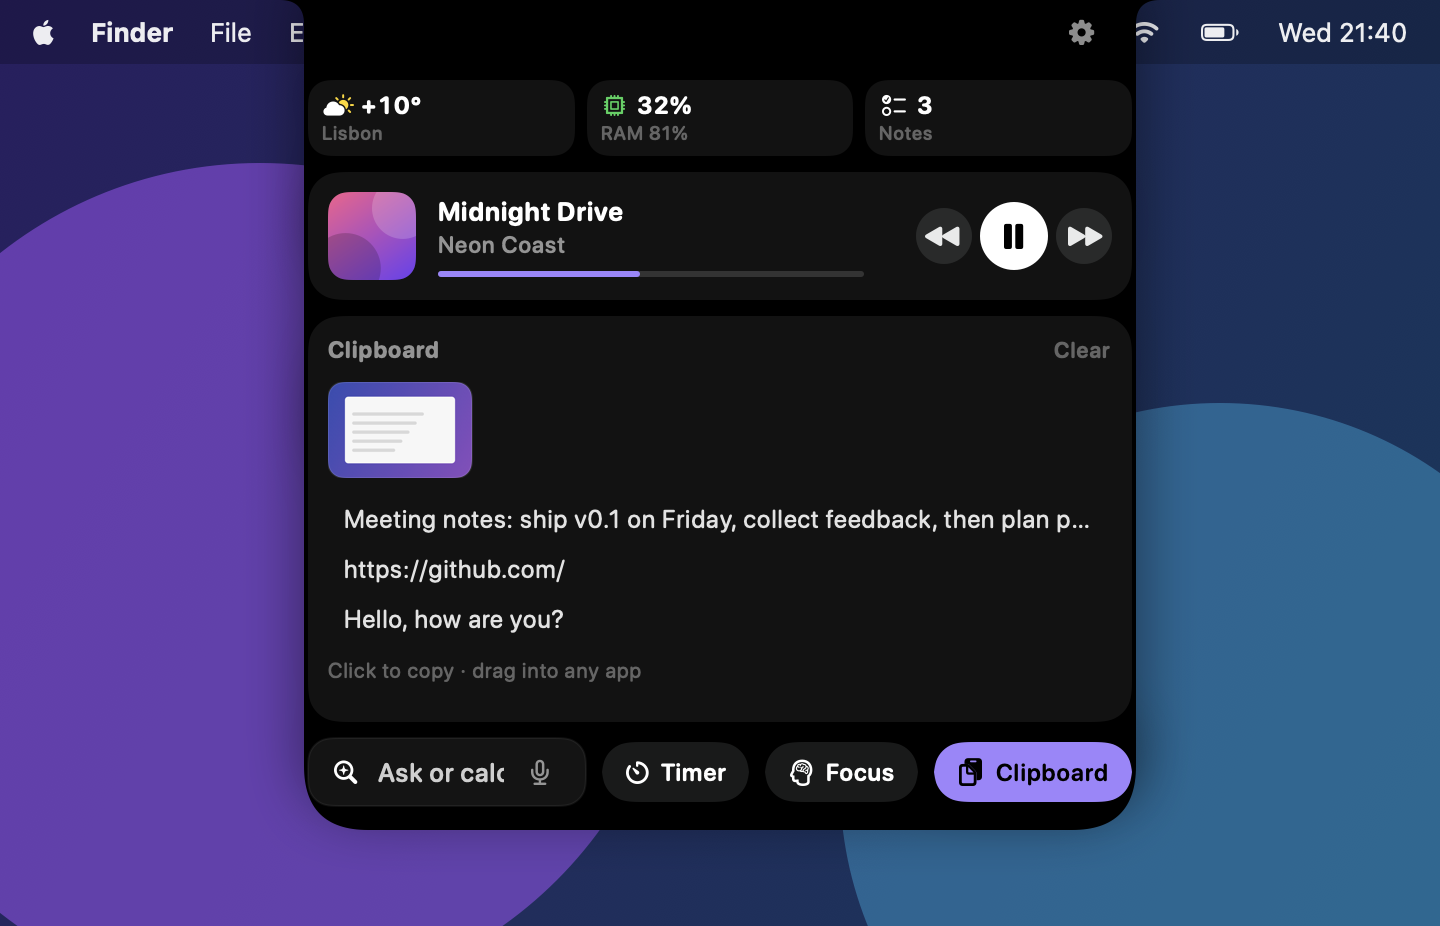
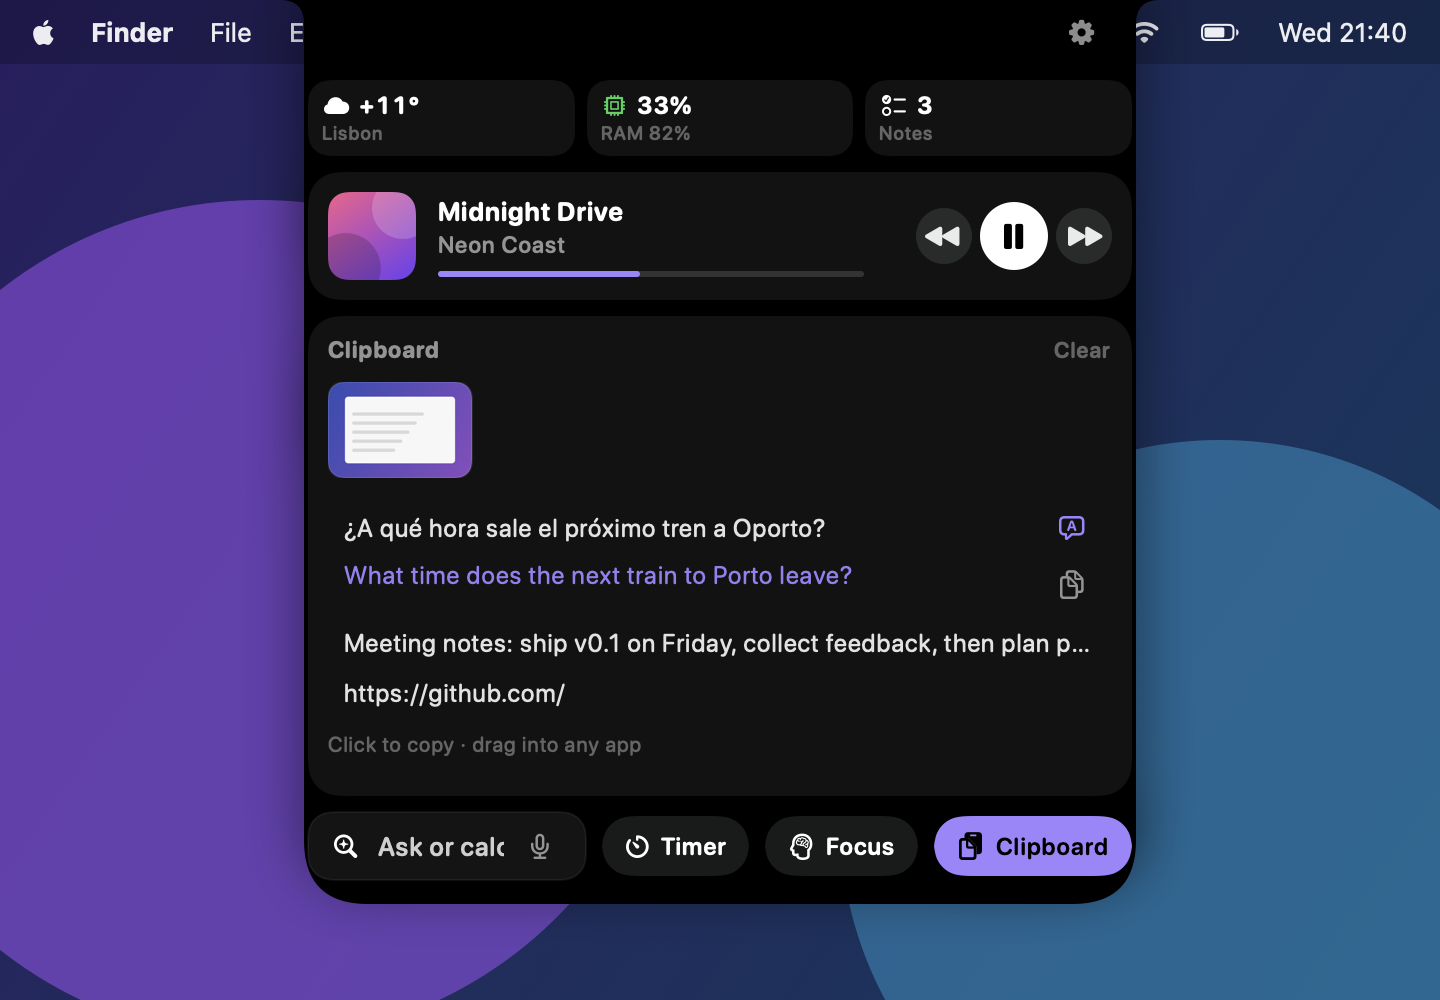
README: explain translating copied text, show a translation in the clipboard screenshot

diff --git a/Sources/App/ReadmeShots.swift b/Sources/App/ReadmeShots.swift
@@ -76,9 +76,12 @@ enum ReadmeShots {
 
         // 6. Smart Clipboard
         let cb = ClipboardStore.shared
-        cb.debugAdd(text: "Hello, how are you?")
         cb.debugAdd(text: "https://github.com/")
         cb.debugAdd(text: "Meeting notes: ship v0.1 on Friday, collect feedback, then plan plugins.")
+        cb.debugAdd(text: "¿A qué hora sale el próximo tren a Oporto?")
+        if let id = cb.texts.first?.id {
+            Translator.shared.debugSet(result: "What time does the next train to Porto leave?", for: id)
+        }
         if let png = fakeScreenshot() { cb.debugAdd(image: png, screenshot: true) }
         state.showClipboard = true
         shot(state, name: "clipboard", height: 760, to: out)

diff --git a/Sources/Modules/Translator.swift b/Sources/Modules/Translator.swift
@@ -19,6 +19,9 @@ final class Translator: ObservableObject {
     @Published private(set) var results: [UUID: String] = [:]
     @Published private(set) var busy: Set<UUID> = []
     @Published private(set) var errors: [UUID: String] = [:]
+
+    /// Для снимков README: готовый перевод элемента буфера.
+    func debugSet(result: String, for id: UUID) { results[id] = result }
     /// TranslationSession.Configuration (хранится как Any, чтобы класс собирался и на macOS 14).
     @Published fileprivate(set) var islandConfig: Any?
     @Published fileprivate(set) var setupConfig: Any?

diff --git a/README.md b/README.md
@@ -6,7 +6,7 @@
 
 <p align="center">
   <b>A Dynamic Island for the MacBook notch.</b><br>
-  Music, timers, notifications, a smart clipboard, widgets and voice control — right where the camera is.
+  Music, timers, notifications, a smart clipboard with translation, widgets and voice control — right where the camera is.
 </p>
 
 <p align="center">
@@ -37,7 +37,8 @@ It is a native Swift/SwiftUI app with no dependencies — it builds with just th
   - [Voice commands](#voice-commands)
   - [Timers and Pomodoro](#timers-and-pomodoro)
   - [Notifications](#notifications)
-  - [Smart Clipboard and translation](#smart-clipboard-and-translation)
+  - [Smart Clipboard](#smart-clipboard)
+  - [Translate copied text](#translate-copied-text)
   - [Widgets](#widgets)
   - [The “Ask” field](#the-ask-field)
   - [Settings](#settings)
@@ -122,20 +123,36 @@ Recent banners from Telegram, Mail, Messages and other apps are collected in the
 open the app they came from, or clear them. macOS has no official API for this, so MacIsland reads the
 system banners through Accessibility; this is optional and off by default.
 
-### Smart Clipboard and translation
+### Smart Clipboard
 
 <p align="center">
-  <img src="docs/screenshots/clipboard.png" width="720" alt="Clipboard history with a screenshot thumbnail and text items">
+  <img src="docs/screenshots/clipboard.png" width="720" alt="Clipboard history: a screenshot thumbnail, a Spanish sentence with its English translation, and other copied text">
 </p>
 
 The island becomes a temporary workspace between apps:
 
 - **Screenshots in one place.** New screenshots appear as thumbnails — drag them straight into Telegram, a browser or an editor.
-- **Text history.** Copied snippets are kept as separate items: click to copy again, translate, pin or delete.
-- **Translate from the clipboard.** One click shows the translation right in the island, ready to copy.
-  It uses the translator built into macOS (15+): free, and works offline once the languages are downloaded.
+- **Text history.** Copied snippets are kept as separate items: click to copy again, drag into any app, pin or delete.
+- **Translation of anything you copied** — see below.
 - **Limits you control** — 10 texts and 5 images by default. The oldest unpinned items go first.
 - **Private by design.** Everything is stored only on this Mac; passwords copied from password managers are never saved.
+
+### Translate copied text
+
+Reading something in a foreign language? Copy it, and translate it without leaving the app you're in:
+
+1. Copy the text as usual (<kbd>⌘ C</kbd>).
+2. Open the island and press **Clipboard**.
+3. Hover the copied item and click the **translate** button next to it (a speech bubble with an “A”).
+4. The translation appears right under the original — click the copy button to put it on the clipboard.
+   Click translate again to hide it.
+
+- **Language is picked automatically:** text is translated into your system language, and text that's
+  already in your language is translated into English. You can choose a fixed target language in
+  **Settings → Clipboard & Translation**.
+- **Free and offline.** MacIsland uses the translator built into macOS 15+: each language pair downloads
+  once (macOS asks the first time), then works without the internet. Nothing is sent to third-party services.
+- On macOS 14, the text opens in Google Translate in your browser instead.
 
 ### Widgets
 
@@ -303,8 +320,11 @@ Ideas and bug reports are welcome in [Issues](../../issues).
   «включи музыку», «выключи музыку». Распознавание — на самом Mac.
 - **Таймеры, секундомер и Pomodoro** с анимированным аквариумом.
 - **Уведомления**, **батарея**, **загрузки**, индикатор **микрофона и камеры**.
-- **Умный буфер обмена:** скриншоты миниатюрами (перетаскиваются в любое приложение), история текста,
-  закрепление и **перевод** прямо в острове.
+- **Умный буфер обмена:** скриншоты миниатюрами (перетаскиваются в любое приложение), история текста
+  и закрепление.
+- **Перевод скопированного текста:** скопируй текст, открой «Буфер» в острове и нажми кнопку перевода рядом
+  с ним — перевод появится прямо под оригиналом, его можно скопировать. Работает через встроенный переводчик
+  macOS (15+), бесплатно и без интернета после загрузки языков.
 - **Виджеты:** погода, мониторинг системы, заметки и задачи.
 - **Поле «Спросить»:** калькулятор, таймеры, быстрый запуск программ и вопросы нейросети (Apple Intelligence
   или свой ключ API: OpenRouter, OpenAI, Groq, Ollama).
